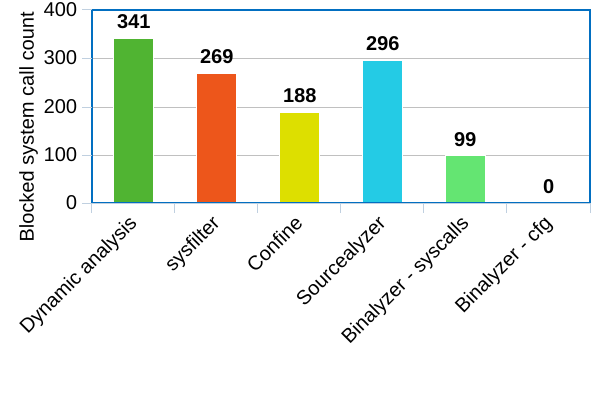
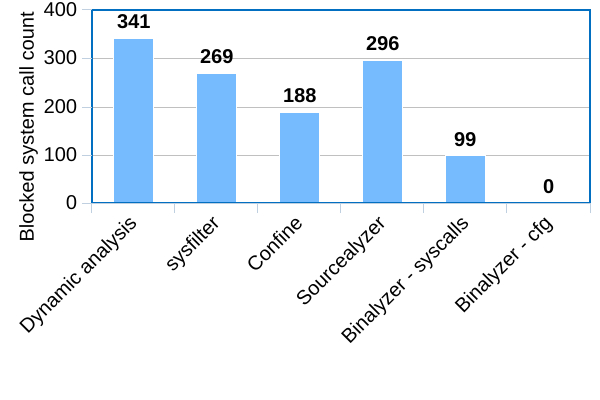
docs: Update final paper
Add more information with regards to how Chestnut works.
Update that static compiling is working now.
Update bar charts for single phase execution to have uniform bar colors.

diff --git a/docs/final_paper/sections/your_contribution.tex b/docs/final_paper/sections/your_contribution.tex
@@ -49,9 +49,16 @@ The input JSON file that defines which containers to test was a simple file cont
 The timing information collected includes the time to analyze extracted binaries and dependencies and to generate a list of used system calls. This specifically excludes the time to run the container and extract the binaries and dependencies from it, in order to make a better comparison to the other tools. The time was measured using the \textit{time.time\_ns()} python function.
 
 \subsection {Chestnut}
-% TODO: make clear the distinction between Sourecealyzer and Binalyzer
-% TODO: test Dynalyzer (or Finalyzer as the paper refers to it) if time allows
-The Chestnut \cite{ref_sp_1} project, which relies mainly on static analysis, was built and ran inside the docker container. The \textit{Binalyzer} part got patched by Petr Khartskhaev, to solve an issue where the \textit{syscalls.py} script did not work.
+The Chestnut \cite{ref_sp_1} project, which relies mainly on static analysis, has 2 main components performing analysis. \textit{Sourcealyzer} extracts the used systems calls through a compiler pass by patching the LLVM compiler, while the \textit{Binalyzer} scripts work on compiled binaries. The project authors provide \textit{Binalyzer} for cases when using \textit{Sourcealyzer} is not feasible, for example because of the LLVM compiler usage or lack of available source code \cite{ref_sp_1}.
+
+Optionally a second phase of analysis called the \textit{Finalyzer} can be performed either after the aforementioned 2 analysis tools or as a standalone analysis process.
+It is based on dynamic tracing, and its goal is to unblock system calls which were not detected by the static analysis tools, such as in the case when the program under analysis dynamically loads another process as a child.
+It is intended to be used during development in a safe environment, and requires the tester to manually decide whether a system call should be allowed that was not detected by static analysis.
+
+\textit{Finalyzer} is not evaluated in this research, since it requires manual intervention to decide if a system call outside the list of allowed system calls can be made or not.
+Furthermore, to which extent the applications work after blocking the detected system calls is outside the scope of this research and is indicated as future work.
+
+The project was built and ran inside the docker container. The \textit{Binalyzer} part got patched by Petr Khartskhaev, to solve an issue where the \textit{syscalls.py} script did not work.
 The experiment evaluates both \textit{syscalls.py} and \textit{cfg.py} on the binaries included with the Ubuntu distribution, as well as the statically built binaries, which are generated by the patched clang compiler explained below.
 
 Furthermore the author has made some modifications to the \textit{Sourcealyzer} part of the project. First, the LLVM download and patch script was modified to apply the patch without user interaction and to also build clang and ldd.
@@ -59,6 +66,7 @@ Next, the number of concurrent build jobs were also reduced to 10, since the bui
 
 Afterwards \textit{musl} was setup (commit hash 007997299248b8682dcbb73595c53dfe86071c83), since all dependencies of programs under test need to be rebuilt using a new compiler flag, and building \textit{glibc} using the patched clang compiler did not work due to some missing GNU extensions.
 Then the \textit{musl-clang} wrapper is modified to use the patched linker, instead of the system default, this is required for the intended program analysis to be done.
+Furthermore a copy of the wrapper is made that support static building, since the default one has command line options which imply dynamic linking.
 
 Next libseccomp is rebuilt (commit hash 9da5d174e3ef219baab020a79c789f2075ace45c) against \textit{musl}, because a chestnut object, that needs to be built into the final analyzed program, depends on it, however the final analyzed program is not built against \textit{glibc} like the installed libseccomp-dev package is.
 In the following step the aforementioned chestnut object is rebuilt against the new libseccomp, and that is the final step to setup the tool.

diff --git a/docs/final_paper/sections/discussion.tex b/docs/final_paper/sections/discussion.tex
@@ -1,4 +1,3 @@
-% TODO: if we have researched finalyzer as well we should include it in the image
 \section{Discussion}
 \label{sec:discussion}
 This section explores the results stated in the previous section and attempts to find explanations or new connections between topics.
@@ -52,8 +51,6 @@ Here a potential problem is with containers that are not long running, and exit 
 In the case of chestnut, the setup is pretty cumbersome, as no guide or detailed instructions are available on how to setup a system to work with chestnut.
 The setup is more time consuming compared to other tools, due to the large amount of compilation work.
 Additionally the implementation is restrictive in the compiler used, its version, and the need for static compilation.
-In the end, although the filtered system calls were extracted, the produced binaries crashed early in the loading process and were not able to run.
-Although it is possible that the setup has mistakes, it highlights the problem of missing setup and usage instructions.
 
 \subsection {Multi phase execution model}
 \begin{figure}

diff --git a/docs/final_paper/research_paper.tex b/docs/final_paper/research_paper.tex
@@ -36,8 +36,6 @@
 
 \input{sections/conclusion_and_future_work}
 
-\input{sections/appendix}
-
 \bibliographystyle{plain}
 \bibliography{references}
 
